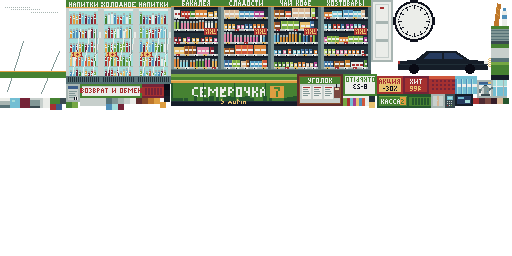
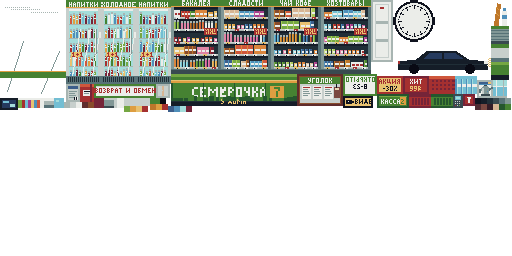
Магазин: огнетушитель, камера под потолком и табличка про видео, воблеры «Акция» на ниточках

Changed region(s): [[0.0, 0.3125, 0.375, 0.4375], [0.7812, 0.3438, 1.0, 0.4375], [0.6562, 0.375, 0.75, 0.4375]]

diff --git a/src/game/world3d/rooms/shop.gen.ts b/src/game/world3d/rooms/shop.gen.ts
@@ -1,6 +1,6 @@
 // Сгенерировано tools/art/rooms_a.py — не править руками.
 // Раскладка атласа (x, y, w, h в текселях) и места вещей, по которым запечены тени и свет.
 
-export const ATLAS = {"w": 512, "h": 256, "rects": {"glass_in": [1, 1, 64, 96], "fridge0": [67, 1, 33, 82], "fridge1": [102, 1, 33, 82], "fridge2": [137, 1, 33, 82], "shelf0": [172, 1, 48, 72], "shelf1": [222, 1, 48, 72], "shelf2": [272, 1, 48, 72], "shelf3": [322, 1, 48, 72], "gate": [372, 1, 20, 60], "clock": [394, 1, 40, 40], "car_night": [394, 43, 96, 32], "counter_front": [172, 75, 124, 30], "board": [298, 75, 44, 30], "cart_goods": [492, 1, 16, 24], "hours": [344, 75, 32, 20], "akcia": [378, 77, 24, 16], "hit": [404, 77, 24, 16], "cart": [430, 77, 24, 16], "water6": [456, 77, 20, 16], "shelf_side": [492, 27, 16, 16], "fridge_side": [492, 45, 16, 16], "counter_side": [492, 63, 16, 16], "kettle_box": [478, 81, 14, 16], "water_side": [494, 81, 12, 16], "kettle_side": [67, 85, 12, 16], "ret_sign": [81, 85, 60, 12], "kassa": [378, 95, 30, 12], "basket": [143, 85, 20, 12], "basket_g": [410, 95, 20, 12], "kettle_top": [432, 95, 12, 12], "terminal": [446, 95, 8, 12], "display": [456, 95, 16, 10], "gum": [344, 97, 24, 8], "chrome": [1, 99, 8, 8], "water_top": [11, 99, 8, 8], "cart_top": [21, 99, 8, 8], "alu": [31, 99, 8, 8], "pole": [41, 99, 8, 8], "gate_edge": [81, 99, 24, 6], "clock_rim": [51, 99, 8, 4], "c36": [165, 85, 4, 4], "c37": [165, 91, 4, 4], "c38": [165, 97, 4, 4], "c39": [370, 97, 4, 4], "c40": [61, 99, 4, 4], "c41": [107, 99, 4, 4], "c42": [113, 99, 4, 4], "c43": [119, 99, 4, 4], "c44": [125, 99, 4, 4], "c45": [131, 99, 4, 4], "c19": [137, 99, 4, 4], "c20": [143, 99, 4, 4], "c21": [149, 99, 4, 4], "c22": [161, 103, 4, 4], "c27": [51, 105, 4, 4], "c12": [480, 99, 4, 4], "c13": [486, 99, 4, 4], "c18": [492, 99, 4, 4], "c16": [498, 99, 4, 4], "c7": [504, 99, 4, 4], "c8": [67, 103, 4, 4], "c9": [73, 103, 4, 4], "c23": [370, 103, 4, 4], "c2": [57, 105, 4, 4], "c3": [107, 105, 4, 4], "c5": [113, 105, 4, 4], "c26": [119, 105, 4, 4]}} as const
+export const ATLAS = {"w": 512, "h": 256, "rects": {"glass_in": [1, 1, 64, 96], "fridge0": [67, 1, 33, 82], "fridge1": [102, 1, 33, 82], "fridge2": [137, 1, 33, 82], "shelf0": [172, 1, 48, 72], "shelf1": [222, 1, 48, 72], "shelf2": [272, 1, 48, 72], "shelf3": [322, 1, 48, 72], "gate": [372, 1, 20, 60], "clock": [394, 1, 40, 40], "car_night": [394, 43, 96, 32], "counter_front": [172, 75, 124, 30], "board": [298, 75, 44, 30], "cart_goods": [492, 1, 16, 24], "hours": [344, 75, 32, 20], "akcia": [378, 77, 24, 16], "hit": [404, 77, 24, 16], "cart": [430, 77, 24, 16], "water6": [456, 77, 20, 16], "shelf_side": [492, 27, 16, 16], "fridge_side": [492, 45, 16, 16], "counter_side": [492, 63, 16, 16], "kettle_box": [478, 81, 14, 16], "water_side": [494, 81, 12, 16], "kettle_side": [67, 85, 12, 16], "ext": [81, 85, 12, 16], "ret_sign": [95, 85, 60, 12], "kassa": [378, 95, 30, 12], "basket": [410, 95, 20, 12], "basket_g": [432, 95, 20, 12], "kettle_top": [157, 85, 12, 12], "terminal": [454, 95, 8, 12], "cctv": [344, 97, 28, 10], "display": [1, 99, 16, 10], "ext_sign": [464, 95, 10, 10], "gum": [19, 99, 24, 8], "chrome": [45, 99, 8, 8], "water_top": [55, 99, 8, 8], "cart_top": [95, 99, 8, 8], "alu": [105, 99, 8, 8], "pole": [115, 99, 8, 8], "gate_edge": [125, 99, 24, 6], "clock_rim": [151, 99, 8, 4], "c36": [161, 99, 4, 4], "c37": [476, 99, 4, 4], "c38": [482, 99, 4, 4], "c39": [488, 99, 4, 4], "c40": [494, 99, 4, 4], "c41": [500, 99, 4, 4], "c42": [506, 99, 4, 4], "c43": [65, 103, 4, 4], "c44": [71, 103, 4, 4], "c45": [77, 103, 4, 4], "c19": [83, 103, 4, 4], "c20": [89, 103, 4, 4], "c21": [151, 105, 4, 4], "c22": [131, 107, 4, 4], "c27": [143, 107, 4, 4], "c12": [476, 105, 4, 4], "c13": [482, 105, 4, 4], "c18": [488, 105, 4, 4], "c16": [494, 105, 4, 4], "c7": [500, 105, 4, 4], "c8": [506, 105, 4, 4], "c9": [125, 107, 4, 4], "c23": [137, 107, 4, 4], "c2": [169, 107, 4, 4], "c3": [175, 107, 4, 4], "c5": [181, 107, 4, 4], "c26": [187, 107, 4, 4]}} as const
 
 export const PLACE = {"fridges": [-2.62, -0.1, 2.05, 0.66], "shelves": [["back", -3.15, 2, 1.8, 0.42, 0], ["back", 0.75, 2, 1.8, 0.42, 2], ["right", 0.3, 1, 1.8, 0.42, 1], ["front", -3.15, 1, 1.8, 0.4, 3], ["front", 1.95, 1, 1.8, 0.4, 0]], "board": [-0.56, 0.56, 1.0, 1.74], "ret_sign": [1.5, 2.0, 1.4, 0.28], "band": [2.32, 2.62], "glass": [-2.45, 1.95, 0.1, 2.5], "door": [-0.55, 0.7], "gates": [[-2.72, -0.75], [-2.72, 0.9]], "baskets": [-2.62, 1.5], "lamps": [[-1.3, -1.95], [1.3, -1.95], [-1.3, 0.45], [1.3, 0.45]], "kassa": [1.47, -0.8, 2.02], "kettle": [-1.1, 0.02, 0.22], "gum": [1.3, 0.1, -0.12], "terminal": [0.8, -0.08, -0.35], "display": [1.3, -0.42, -0.35], "tray": [0.74, 0.17], "promo": [-1.82, -0.22], "cart": [1.84, -0.2], "view": [-3.5, -2.55, 2.05, -0.15, 2.75]} as const

diff --git a/src/game/world3d/rooms/shop.ts b/src/game/world3d/rooms/shop.ts
@@ -5,7 +5,7 @@
 // За витриной в левой стене — вечерняя улица и общага напротив, нарисованные лучами из глаз игрока.
 // Живое: одна лампа дневного света моргает, иногда за витриной проезжает машина.
 
-import { AmbientLight, BoxGeometry, CircleGeometry, DirectionalLight, Group, Object3D, PlaneGeometry } from 'three'
+import { AmbientLight, BoxGeometry, CircleGeometry, DirectionalLight, Group, Object3D, PlaneGeometry, SphereGeometry } from 'three'
 import { CLOCK, EYE, ROOM as BOX, TABLE } from '../layout'
 import type { RoomBuild } from '../room'
 import { F, Kit, Soup, at, flatY, quads } from '../roomkit'
@@ -149,6 +149,19 @@ function buildShop(): RoomBuild {
   for (const [gtx, gtz] of P.gates) box(0.5, 1.5, 0.07, F('gate', 'gate_edge', 'gate_edge'), gtx, 0, gtz)
   const [bsx, bsz] = P.baskets
   for (let k = 0; k < 6; k++) box(0.46, 0.24, 0.34, F(k % 2 ? 'basket_g' : 'basket', k % 2 ? 'basket_g' : 'basket', k % 2 ? 'c7' : 'c26'), bsx, k * 0.05, bsz, (k % 3) * 0.04)
+
+  // огнетушитель у передней стены, камера под потолком и табличка про видео, воблеры на ниточках
+  cyl(0.075, 0.075, 0.46, 10, ['ext', 'c27', 'c27'], HW - 0.1, 0.32, 1.9)
+  box(0.03, 0.08, 0.03, 'c37', HW - 0.1, 0.78, 1.9)
+  box(0.02, 0.3, 0.02, 'c37', HW - 0.16, 0.42, 1.95, 0, 0, 0.2)
+  box(0.12, 0.04, 0.06, 'c40', HW - 0.03, 0.3, 1.9, -PI / 2)
+  art(0.22, 0.22, 'ext_sign', HW - 0.003, 1.02, 1.9, -PI / 2, 1)
+  soup.add(new SphereGeometry(0.09, 10, 4, 0, 2 * PI, PI / 2, PI / 2), at(-2.7, H - 0.001, -2.35), 'c37')
+  art(0.7, 0.25, 'cctv', -2.6, 2.07, BACK + 0.004, 0, 0)
+  for (const [x, z, name, ry] of [[-1.6, -0.6, 'akcia', 0.3], [1.1, 0.9, 'hit', -0.5], [-0.2, 1.6, 'akcia', 0.1]] as const) {
+    box(0.006, 0.36, 0.006, 'c43', x, H - 0.36, z)
+    soup.add(new PlaneGeometry(0.36, 0.24), at(x, H - 0.48, z, ry), name, 0)
+  }
 
   // ------------------------------------------------------------------ собрать суп
   const atlas0 = kit.tex('shop_atlas0')

diff --git a/tools/art/rooms_a.py b/tools/art/rooms_a.py
@@ -1903,6 +1903,26 @@ def shop_atlas(P):
     for k in range(8):
         t.checker(94, 18 - k // 2, 95, 20 + k // 2, 23)
     at.add('car_night', t)
+    t = Tex(12, 16, 27)  # огнетушитель
+    t.rect(0, 0, 11, 1, 28)
+    t.rect(2, 5, 9, 10, 45)
+    t.rect(3, 6, 8, 6, 37)
+    t.rect(3, 8, 7, 8, 42)
+    t.rect(9, 0, 10, 15, 26)
+    at.add('ext', t)
+    t = Tex(10, 10, 27)  # табличка «огнетушитель»
+    t.frame(0, 0, 9, 9, 26)
+    t.rect(4, 2, 5, 7, 45)
+    t.rect(3, 2, 6, 2, 45)
+    t.px(6, 3, 45)
+    at.add('ext_sign', t)
+    t = Tex(28, 10, 23)  # «Ведётся видеонаблюдение»
+    t.frame(0, 0, 27, 9, 37)
+    t.rect(2, 3, 7, 6, 37)
+    t.rect(8, 4, 9, 5, 37)
+    t.px(4, 4, 45)
+    t.text(11, 2, 'ВИДЕО', 37)
+    at.add('cctv', t)
     t = Tex(8, 8, 45)  # пластиковая стойка «Касса 2»
     t.rect(0, 0, 1, 7, 44)
     at.add('pole', t)
